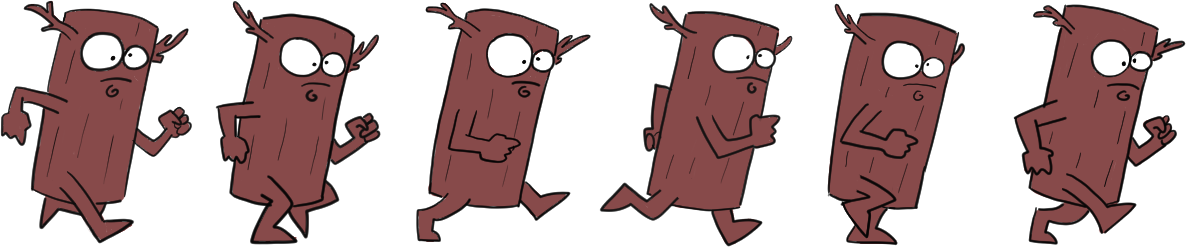
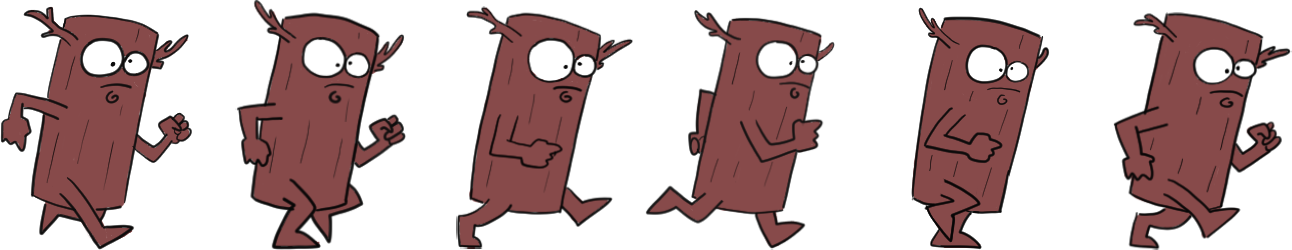
mr. stick & saw obstacle

Changed region(s): [[0.0, 0.0, 0.6863, 1.0], [0.8423, 0.0, 1.0, 1.0], [0.6863, 0.0283, 0.8111, 1.0]]

diff --git a/js/player.js b/js/player.js
@@ -1,65 +1,68 @@
 class Player {
   constructor(ctx) {
     this.ctx = ctx; // Player's environment
-    this.width = 50;
-    this.height = 60;
-    this.y = this.ctx.canvas.height + 10 - this.height; // subtract canvas height minus player's height to get vertical position of the player
+    this.width = 215;
+    this.height = 250;
     this.x = 15; // Horizontal position of the player
-    this.spritesCount = 6; // Number of movements of the player
-    this.spriteNumber = 0; // Initialize sprite
+    this.y = this.ctx.canvas.height - this.height / 2 - 20; // subtract canvas height minus player's height to get vertical position of the player
+    //this.spritesCount = 6; // Number of movements of the player
+    //this.spriteNumber = 0; // Initialize sprite
     this.img = new Image();
-    this.img.src = "./images/player.png";
+    this.img.src = "../images/player.png";
     this.speedY = 0; // Player's speed
+
+    this.spriteColumns = 6;
+    this.spriteRows = 1;
+
+    this.spriteCol = 0;
+    this.spriteRow = 0;
+    this.spriteX = 0;
+    this.spriteY = 0;
   }
 
   // jump() method to calculate the speed of the player's jump
   jump() {
     console.log("🤓 Weirdo's Jump!!!");
-    if (this.speedY === 0) this.speedY = -20;
+    if (this.speedY === 0) this.speedY = - 23;
   }
 
   // move()
   move(frameId) {
     this.y += this.speedY;
-    if (this.y < this.ctx.canvas.height - this.height - 10)
-      this.speedY += 1; // this is gravity reducing the vertical speed
+    if (this.y < this.ctx.canvas.height - this.height / 2 - 20)
+      this.speedY += 0.8; // this is gravity reducing the vertical speed
     else {
       this.speedY = 0;
-      this.y = this.ctx.canvas.height - this.height - 10;
+      this.y = this.ctx.canvas.height - this.height / 2 - 20;
     } // when player hits the ground we stop the speed
   }
 
-  // animate() method
-  animate(frameId) {
-    this.spriteNumber = Math.floor((frameId / 10) % this.spritesCount);
+  setSpriteFrame(frameNumber) {
+    if (frameNumber % 6 === 0) {
+      this.spriteCol += 1;
+
+      if (this.spriteCol >= this.spriteColumns) {
+        this.spriteCol = 0;
+      }
+
+      this.spriteX = this.width * this.spriteCol;
+      this.spriteY = this.height * this.spriteRow;
+    }
   }
 
   // draw() to draw and draw the movement of the player
   draw(frameId) {
-    this.animate(frameId);
-    const spriteX = this.spriteNumber * this.width;
-    const spriteY = 0;
-    const spriteWidth = 100;
-    const spriteHeight = 250;
-
-    // Variables to paint the player on the screen
-    // Coordinates on the screen
-    const drawnX = this.x;
-    const drawnY = this.y;
-    // Size of the player to paint
-    const drawnWidth = this.width;
-    const drawnHeight = this.height;
-
+    this.setSpriteFrame(frameId);
     this.ctx.drawImage(
       this.img,
-      spriteX,
-      spriteY,
-      spriteWidth,
-      spriteHeight,
-      drawnX,
-      drawnY,
-      drawnWidth,
-      drawnHeight
+      this.spriteX,
+      this.spriteY,
+      this.width,
+      this.height,
+      this.x,
+      this.y,
+      this.width / 2 - 20,
+      this.height / 2 - 20
     );
   }
 }

diff --git a/js/enemies.js b/js/enemies.js
@@ -1,14 +1,22 @@
 class Enemies {
   constructor(ctx, x0, y0) {
     this.ctx = ctx;
+    this.width = 134;
+    this.height = 124;
     this.img = new Image();
     this.img.src = "./images/saw.png";
-    this.speedX = -1;
+    this.speedX = -4;
     this.speedY = 0;
-    this.width = 20;
-    this.height = 20;
     this.x = x0 - this.width - 20;
-    this.y = y0 - this.height - 10;
+    this.y = y0 - 86;
+
+    this.spriteColumns = 3;
+    this.spriteRows = 1;
+
+    this.spriteCol = 0;
+    this.spriteRow = 0;
+    this.spriteX = 0;
+    this.spriteY = 0;
   }
 
   // move() add the values of the speed to move the enemies on the screen
@@ -18,8 +26,32 @@ class Enemies {
   }
 
   // draw() drawing the enemies
-  draw(frameId) {
-    if (!this.img) this.ctx.fillRect(this.x, this.y, this.width, this.height);
-    else this.ctx.drawImage(this.img, this.x, this.y, this.width, this.height);
+  setSpriteFrame(frameNumber) {
+    if (frameNumber % 6 === 0) {
+      this.spriteCol += 1;
+
+      if (this.spriteCol >= this.spriteColumns) {
+        this.spriteCol = 0;
+      }
+
+      this.spriteX = this.width * this.spriteCol;
+      this.spriteY = this.height * this.spriteRow;
+    }
   }
+
+  // draw() to draw and draw the movement of the player
+  draw(frameId) {
+    this.setSpriteFrame(frameId);
+    this.ctx.drawImage(
+      this.img,
+      this.spriteX,
+      this.spriteY,
+      this.width,
+      this.height/2,
+      this.x,
+      this.y,
+      this.width*0.9 - 20,
+      (this.height*0.9 - 20)/2
+    );
+  } 
 }

diff --git a/js/game.js b/js/game.js
@@ -60,8 +60,8 @@ class Game {
   // generateObstacle() to create the enemies every x frame
   generateEnemies() {
     if (this.frameId > 100) {
-      if (this.frameId % 150 === 0) {
-        console.log(" 🟥 Enemy generated!!!");
+      if (this.frameId % 200 === 0) {
+        //console.log(" 🟥 Enemy generated!!!");
         this.enemies.push(
           new Enemies(this.ctx, this.ctx.canvas.width, this.ctx.canvas.height)
         );
@@ -76,7 +76,7 @@ class Game {
     // Check the position of the player ...
     this.enemies.forEach((enemy) => {
       if (
-        ((this.player.x + this.player.width >= enemy.x) && (this.player.x <= enemy.x + enemy.x) && (this.player.y + this.player.height >= enemy.y) && (this.player.y <= enemy.y + enemy.height)
+        ((this.player.x + (this.player.width / 2 - 20) >= enemy.x) && (this.player.x <= enemy.x + enemy.width*0.9 - 20) && (this.player.y + this.player.height >= enemy.y) && (this.player.y <= enemy.y + enemy.height)
         ) ){
         console.log(" 🤯 Colision!!!");
       }

diff --git a/index.html b/index.html
@@ -21,7 +21,7 @@
       <button id="start-button"><span>LET'S ROCK</span></button>
     </div>
 
-    <canvas id="canvas"></canvas>
+    <canvas id="canvas" width="1000" height="500"></canvas>
 
     <!-- Link to JS files -->
     <script src="./js/player.js"></script>

diff --git a/styles/index.css b/styles/index.css
@@ -16,8 +16,8 @@
   display: block;
   border: 6px solid green;
   margin: 7% auto;
-  width: 1000px;
-  height: 550px;
+  /*width: 1000px;
+  height: 550px;*/
 }
 
 /* Text on Start Screen*/
